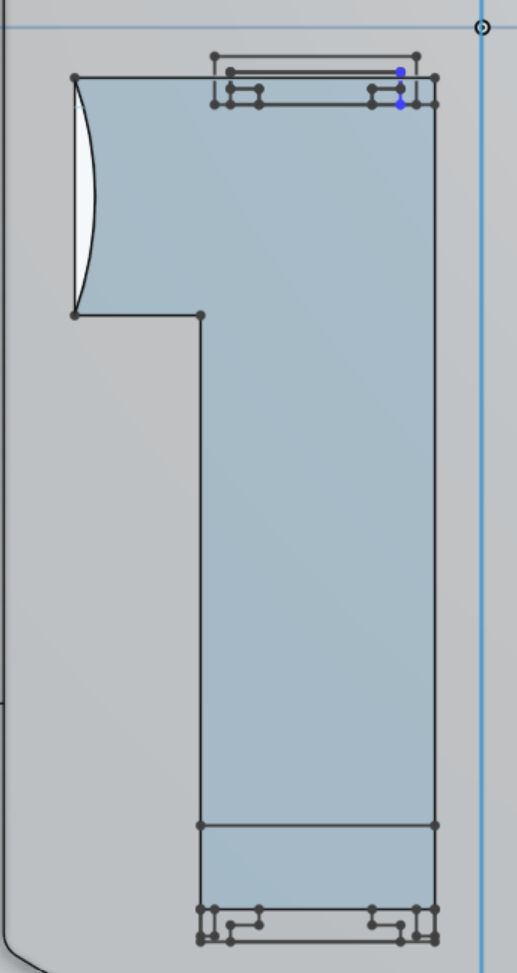
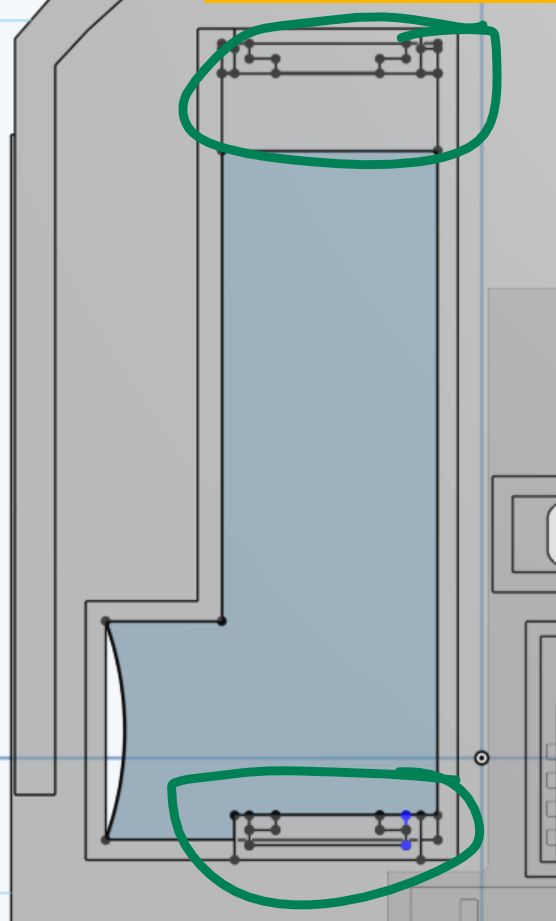
uhuhg

Changed region(s): [[0.0, 0.0, 1.0, 1.0], [0.1547, 0.0, 0.2166, 0.0304]]

diff --git a/src/pages/Design.tsx b/src/pages/Design.tsx
@@ -47,7 +47,8 @@ import tut_40 from '../assets/tut_40.png';
 import tut_41 from '../assets/tut_41.png';
 import tut_42 from '../assets/tut_42.png';
 import tut_43 from '../assets/tut_43.png';
-
+import tut_44 from '../assets/tut_44.png';
+import tut_45 from '../assets/tut_45.png';
 
 
 function Design() {
@@ -159,7 +160,7 @@ function Design() {
     </div>
 
     <div>
-      <p>3. importing parts: start a new assembly. import the sensor, pcb, and wheel from <a href="https://github.com/idksarah/squeak/tree/main/onshape_imports" target="_blank" rel="noopener noreferrer">here</a>. insert them. </p>
+      <p>now we have to import parts. start a new assembly. import the sensor, pcb, and wheel from <a href="https://github.com/idksarah/squeak/tree/main/onshape_imports" target="_blank" rel="noopener noreferrer">here</a>. insert them. </p>
       <p>you may need to rotate the sensor, pcb, and wheel 180 degrees so that they align with the rest of the assembly. fasten the center of the bottom of the sensor to the center of the top of the vertical rectangle. fasten the center of the bottom of the pcb to the center of the circle on the center.</p>
       <p> yipppee!! now, right click on your base and edit in context.</p>
       <div className="hor wrap">
@@ -174,14 +175,14 @@ function Design() {
     <div>
       <p> measurements: </p>
       <p>22.259mm, 1.5mm, 60.462mm, 1.5mm., 2mm, R5.</p>
-      <p> extrude the outer areas by 1.5mm. extrude the walls by 3.4mm. extrude the corners by 4.6mm</p>
-      <p>fig. 1 is just the sketch you're making. fig. 2 also shows what your context should look like</p>
+      <p>fig. use the pcb and draw an L shape on the corners and front of your pcb. the farthest edge should be 1.5mm away from the pcb. the closest edge should be 0.5mm away from the pcb</p>
       <div className="hor">
         <img src={tut_6} className="tutImg"></img>
         <img src={tut_43} className="tutImg"></img>
       </div>
     </div>
-
+      <p> extrude the outer areas by 1.5mm. extrude the pcb walls by 6.6mm</p>
+        <img src={tut_44} className="tutImg"></img>
     <div>
       <p>4. battery holder: </p>
       <p>make this L shape. its placement doesn't really matter, but keep it close to your pcb (ie &lt; 0.5mm distance) since the wires are short. draw fig. 2 at the top and bottom of your L. i recommend using the mirror tool for this. (draw one side and then mirror it.) </p>
@@ -197,19 +198,23 @@ function Design() {
     </div>
 
     <div>
-      <p>view from the back side. start a new sketch using the edge of the battery holder as its face. extrude by 25mm with a 15mm offset.</p>
+      <p>view from the back side. start a new sketch using the edge of the battery holder as its face. </p>
     <div className="hor">
         <img src={tut_14} className="tutImg"></img>
       </div>
+        <p>extrude by 25mm with a 15mm offset.</p>
+        <img src={tut_45} className="tutImg"></img>
     </div>
 
     <div>
       <p>5. battery tab: </p>
       <p>start a new sketch in the empty space. make a small arc. extrude the rest by 2mm.</p>
-      <p> start a new sketch on the bottom of your new part. flip to the top of your mouse and use these sections. remove by 1mm</p>
       <div className="hor" style={{flexWrap: 'wrap'}}>
         <img src={tut_75} className="tutImg"></img>
         <img src={tut_15} className="tutImg"></img>
+      </div>
+      <p> start a new sketch on the top of your new part. flip to the top of your mouse and use these sections. remove by 1.2mm</p>
+      <div className="hor wrap">
         <img src={tut_38} className="tutImg"></img>
         <img src={tut_39} className="tutImg"></img>
       </div>
@@ -222,10 +227,10 @@ function Design() {
 
     <div>
       <p>6. walls: </p>
-      <p>align the left one with the edge of your battery holder. fillet the top by 1mm</p>
-      <p>measurements: 40mm, R3</p>
-      <div className="hor wrap">
+      <p>measurements: 40mm, R3</p>      
         <img src={tut_12} className="tutImg"/>
+      <p>fillet the top by 1mm</p>
+      <div className="hor wrap">
         <img src={tut_125} className="tutImg"></img>
       </div>
     </div>
@@ -270,7 +275,6 @@ function Design() {
 
     <div>
       <p>extend the back of your mouse by 10mm.</p>
-      <img src={tut_29} className='tutImg1'></img>
     </div>
 
     <div>
@@ -309,7 +313,7 @@ function Design() {
     </div>
 
     <div>
-      <p><span className='italic'>unnecessary if you are a. okay with the gap between the two clickers or b. do not have the gap</span></p> 
+      <p><span className='italic'>next step is unnecessary if you are a. okay with the gap between the two clickers or b. do not have the gap</span></p> 
       <p>on the side of your right OR left clicker, draw a sketch where you want to extend your clicker (into the inner gap). make sure it is NOT touching the wheel. i extruded by 6.7mm.</p>
       <div className="hor">
         <img src={tut_30} className='tutImg1'></img>
